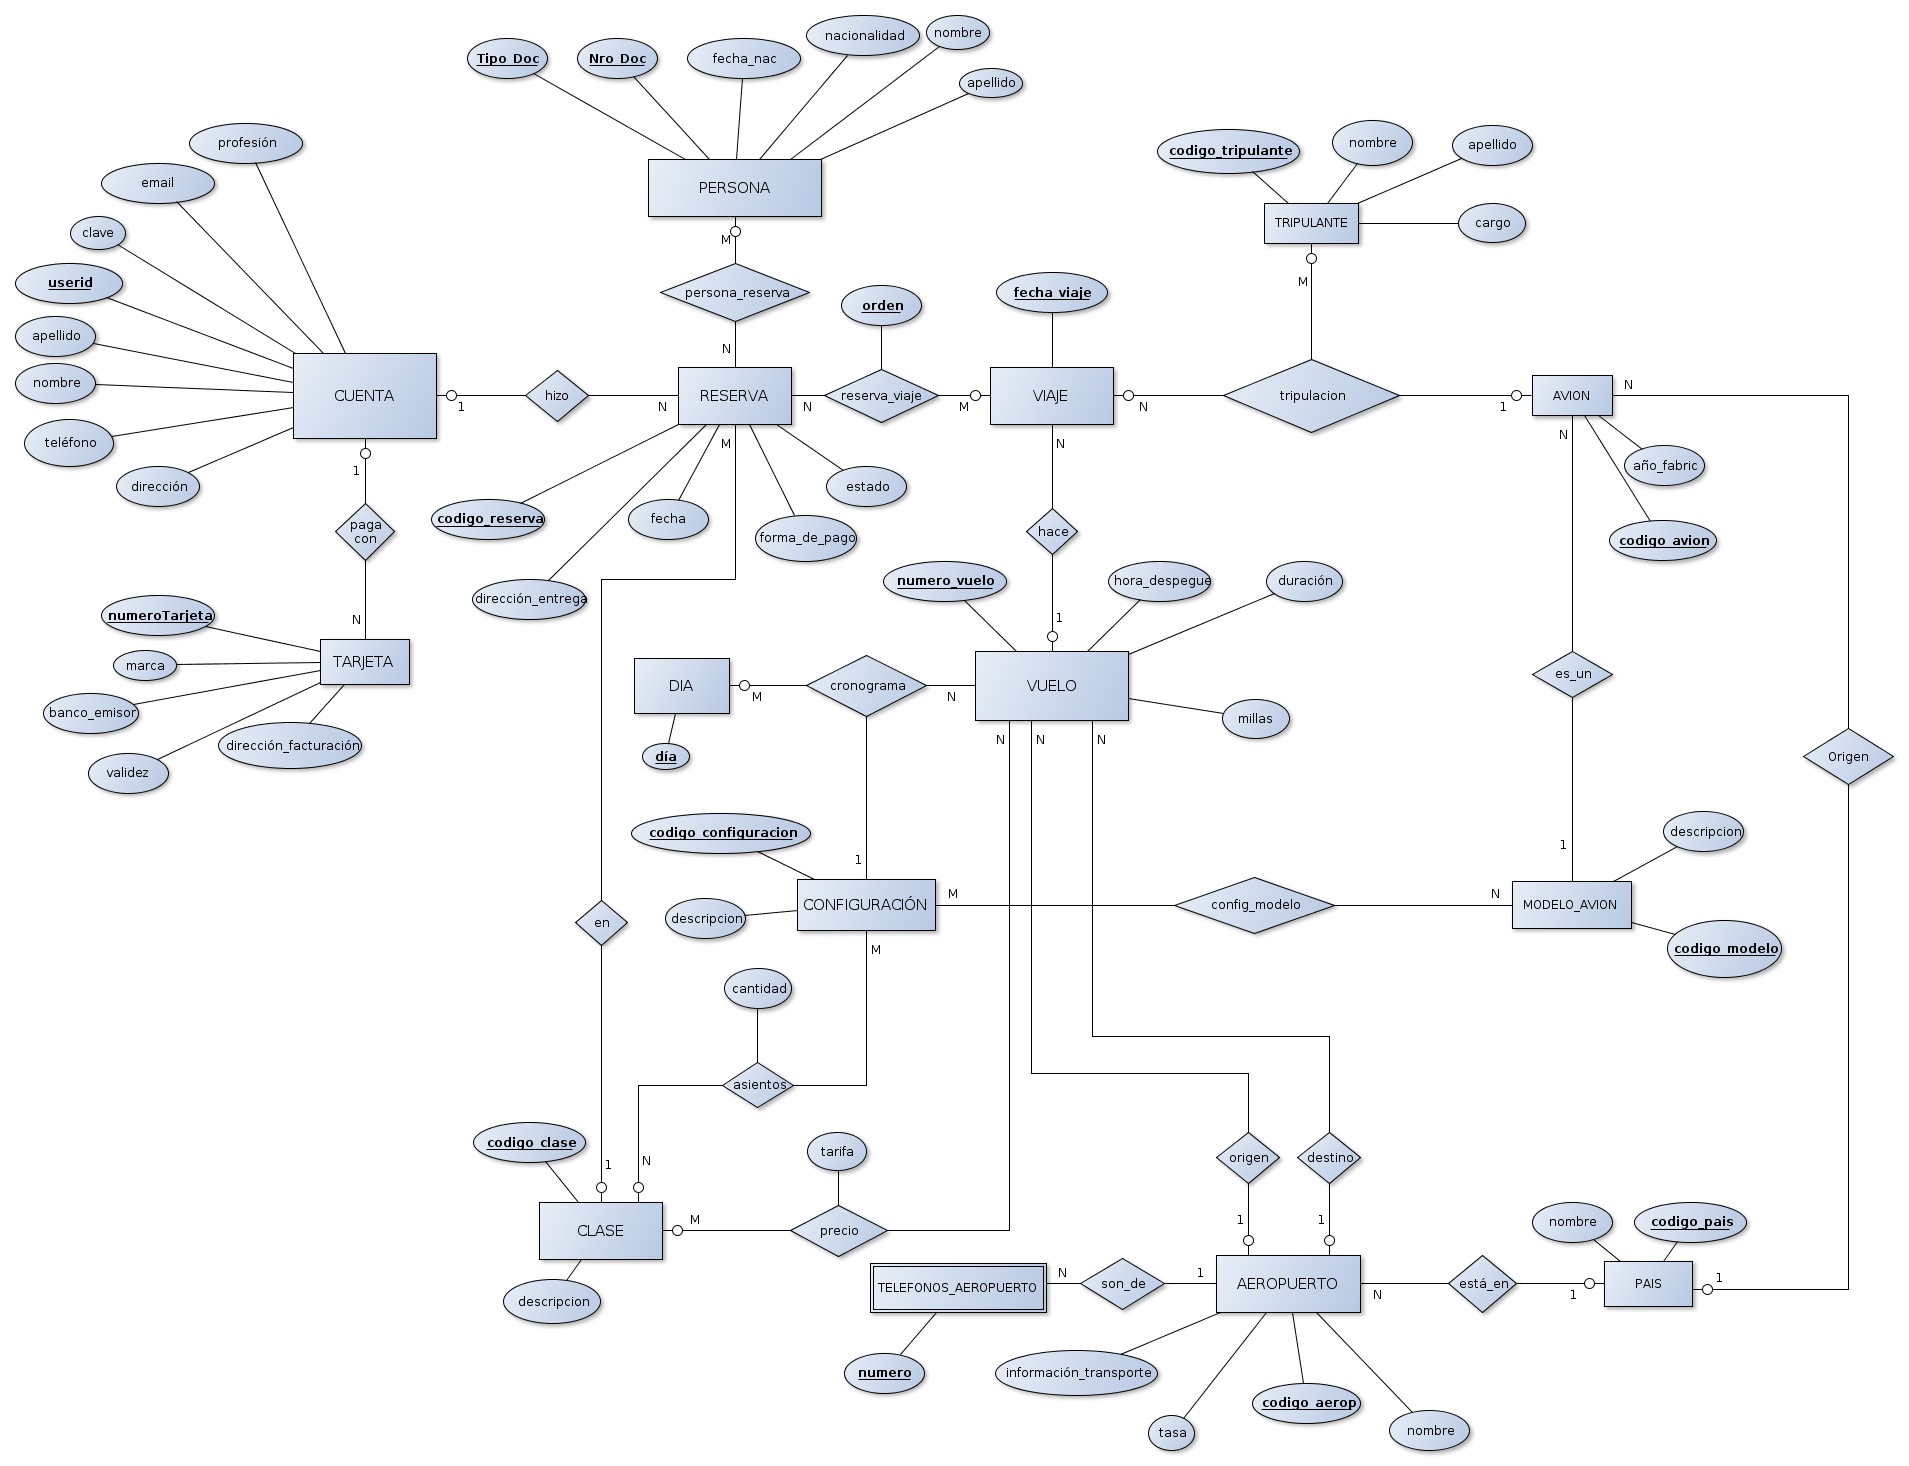
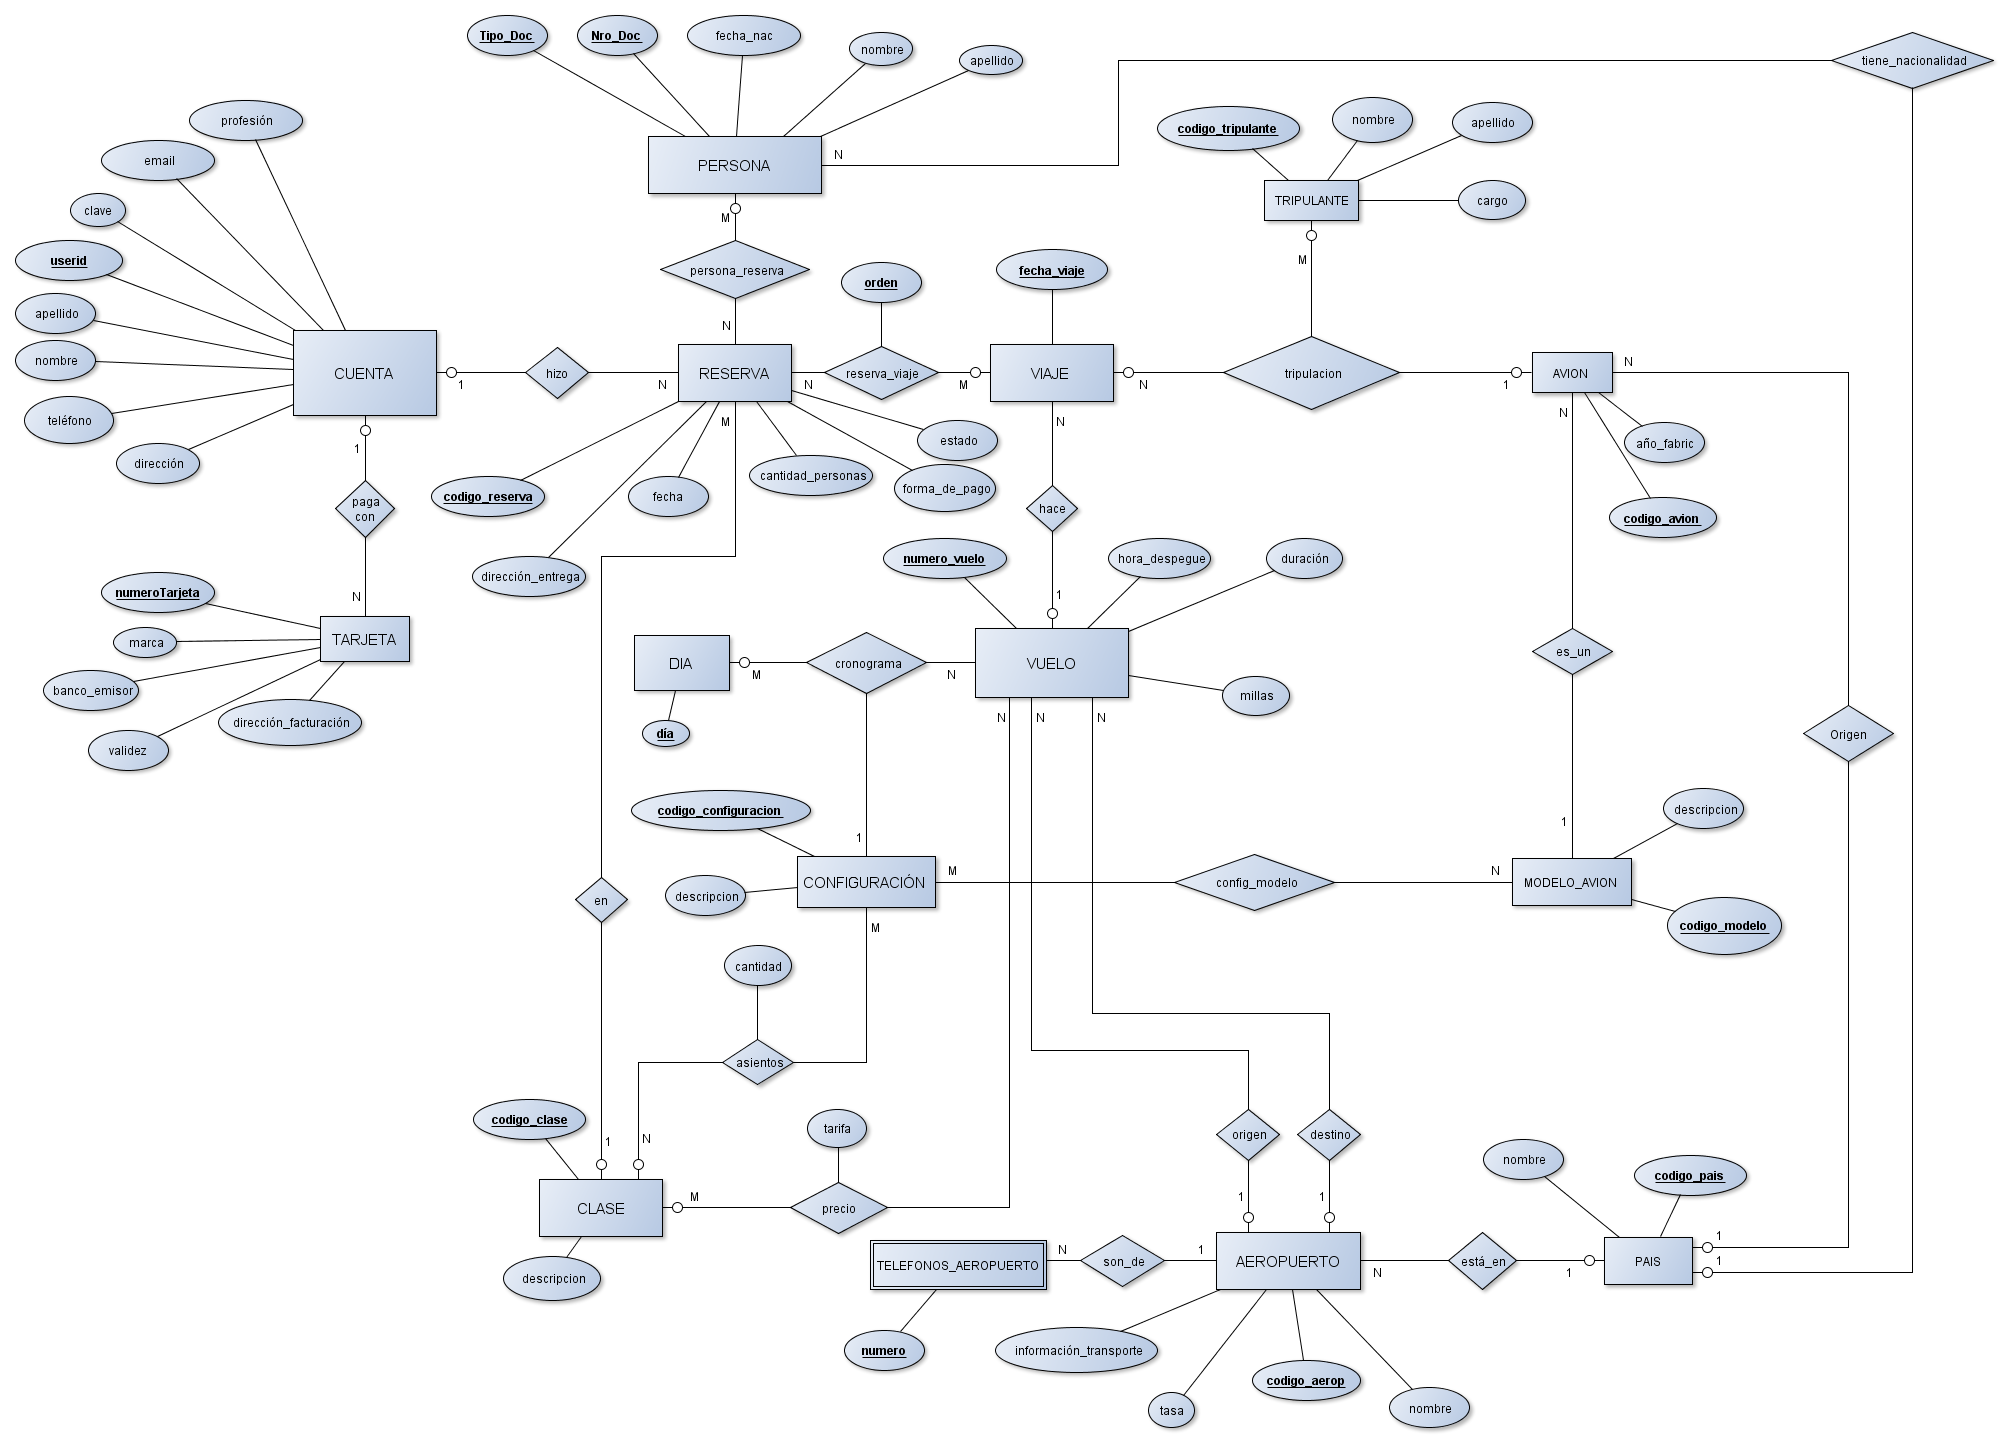
cambios nacionalidad y cantidad personas en el informe

diff --git a/informe/informe.tex b/informe/informe.tex
@@ -113,8 +113,14 @@
 		
 		\maketitle
 	% fin caratula
+
+\newpage
+\thispagestyle{empty}
+\mbox{}
+
+% indice:
 	
-\tableofcontents
+% \tableofcontents
 
 \newpage
 \newpage
@@ -140,9 +146,7 @@
 
 \begin{figure}[h!]
 \centering
-    \includegraphics[angle=90, scale=.35]{DER.png}
-%     \caption{Property profile of the diverse library compared to the compound pool.}
-%     \label{fig:PropProf}
+    \includegraphics[angle=90, scale=.33]{DER.png}
 \end{figure}
 
 
@@ -159,7 +163,7 @@
   \\FK = \{userid\}
   }
 
-  \item \texttt{Reserva(\udash{userid, codigo\_clase}, \underline{codigo\_reserva}, dirección\_entrega, fecha, forma\_de\_pago, estado)
+  \item \texttt{Reserva(\udash{userid, codigo\_clase}, \underline{codigo\_reserva}, dirección\_entrega, fecha, forma\_de\_pago, estado, cantidad\_personas)
   \\ \\PK = CK = \{codigo\_reserva\}
   \\FK = \{userid, codigo\_clase\} 
   }
@@ -168,9 +172,9 @@
   \\ \\PK = CK = FK = \{(tipo\_doc, nro\_doc, codigo\_reserva)\}
   }
 
-  \item \texttt{Persona(\underline{tipo\_doc, nro\_doc}, fecha\_nac, nacionalidad, nombre, apellido)
+  \item \texttt{Persona(\underline{tipo\_doc, nro\_doc}, fecha\_nac, \dotu{codigo\_pais}, nombre, apellido)
   \\ \\PK = CK = \{(tipo\_doc, nro\_doc)\}
-  \\FK = \{\}
+  \\FK = \{codigo\_pais\}
   }
 
   \item \texttt{reserva\_viaje(\underline{orden, \udash{codigo\_reserva, numero\_vuelo, fecha\_viaje}})
@@ -277,7 +281,37 @@
 \newpage
 \section{Funcionalidades}
 
-(falta pegar acá los códigos)
+% hay que reemplazar todos los tabs por espacios para que quede bien
+
+\subsection{Consulta de pasajeros}
+
+FALTA EXPLICACION
+
+\begin{verbatim}
+
+\end{verbatim}
+
+
+\subsection{Reporte de aeropuertos}
+
+FALTA EXPLICACION
+
+\begin{verbatim}
+ 
+NO SE CUAL DE LOS 2 REPORTES ES EL QUE VALE!
+
+\end{verbatim}
+
+
+\subsection{Trigger de reservas}
+
+FALTA EXPLICACION
+
+\begin{verbatim}
+ 
+
+\end{verbatim}
+
 
 \newpage
 % \section{Conclusiones}
